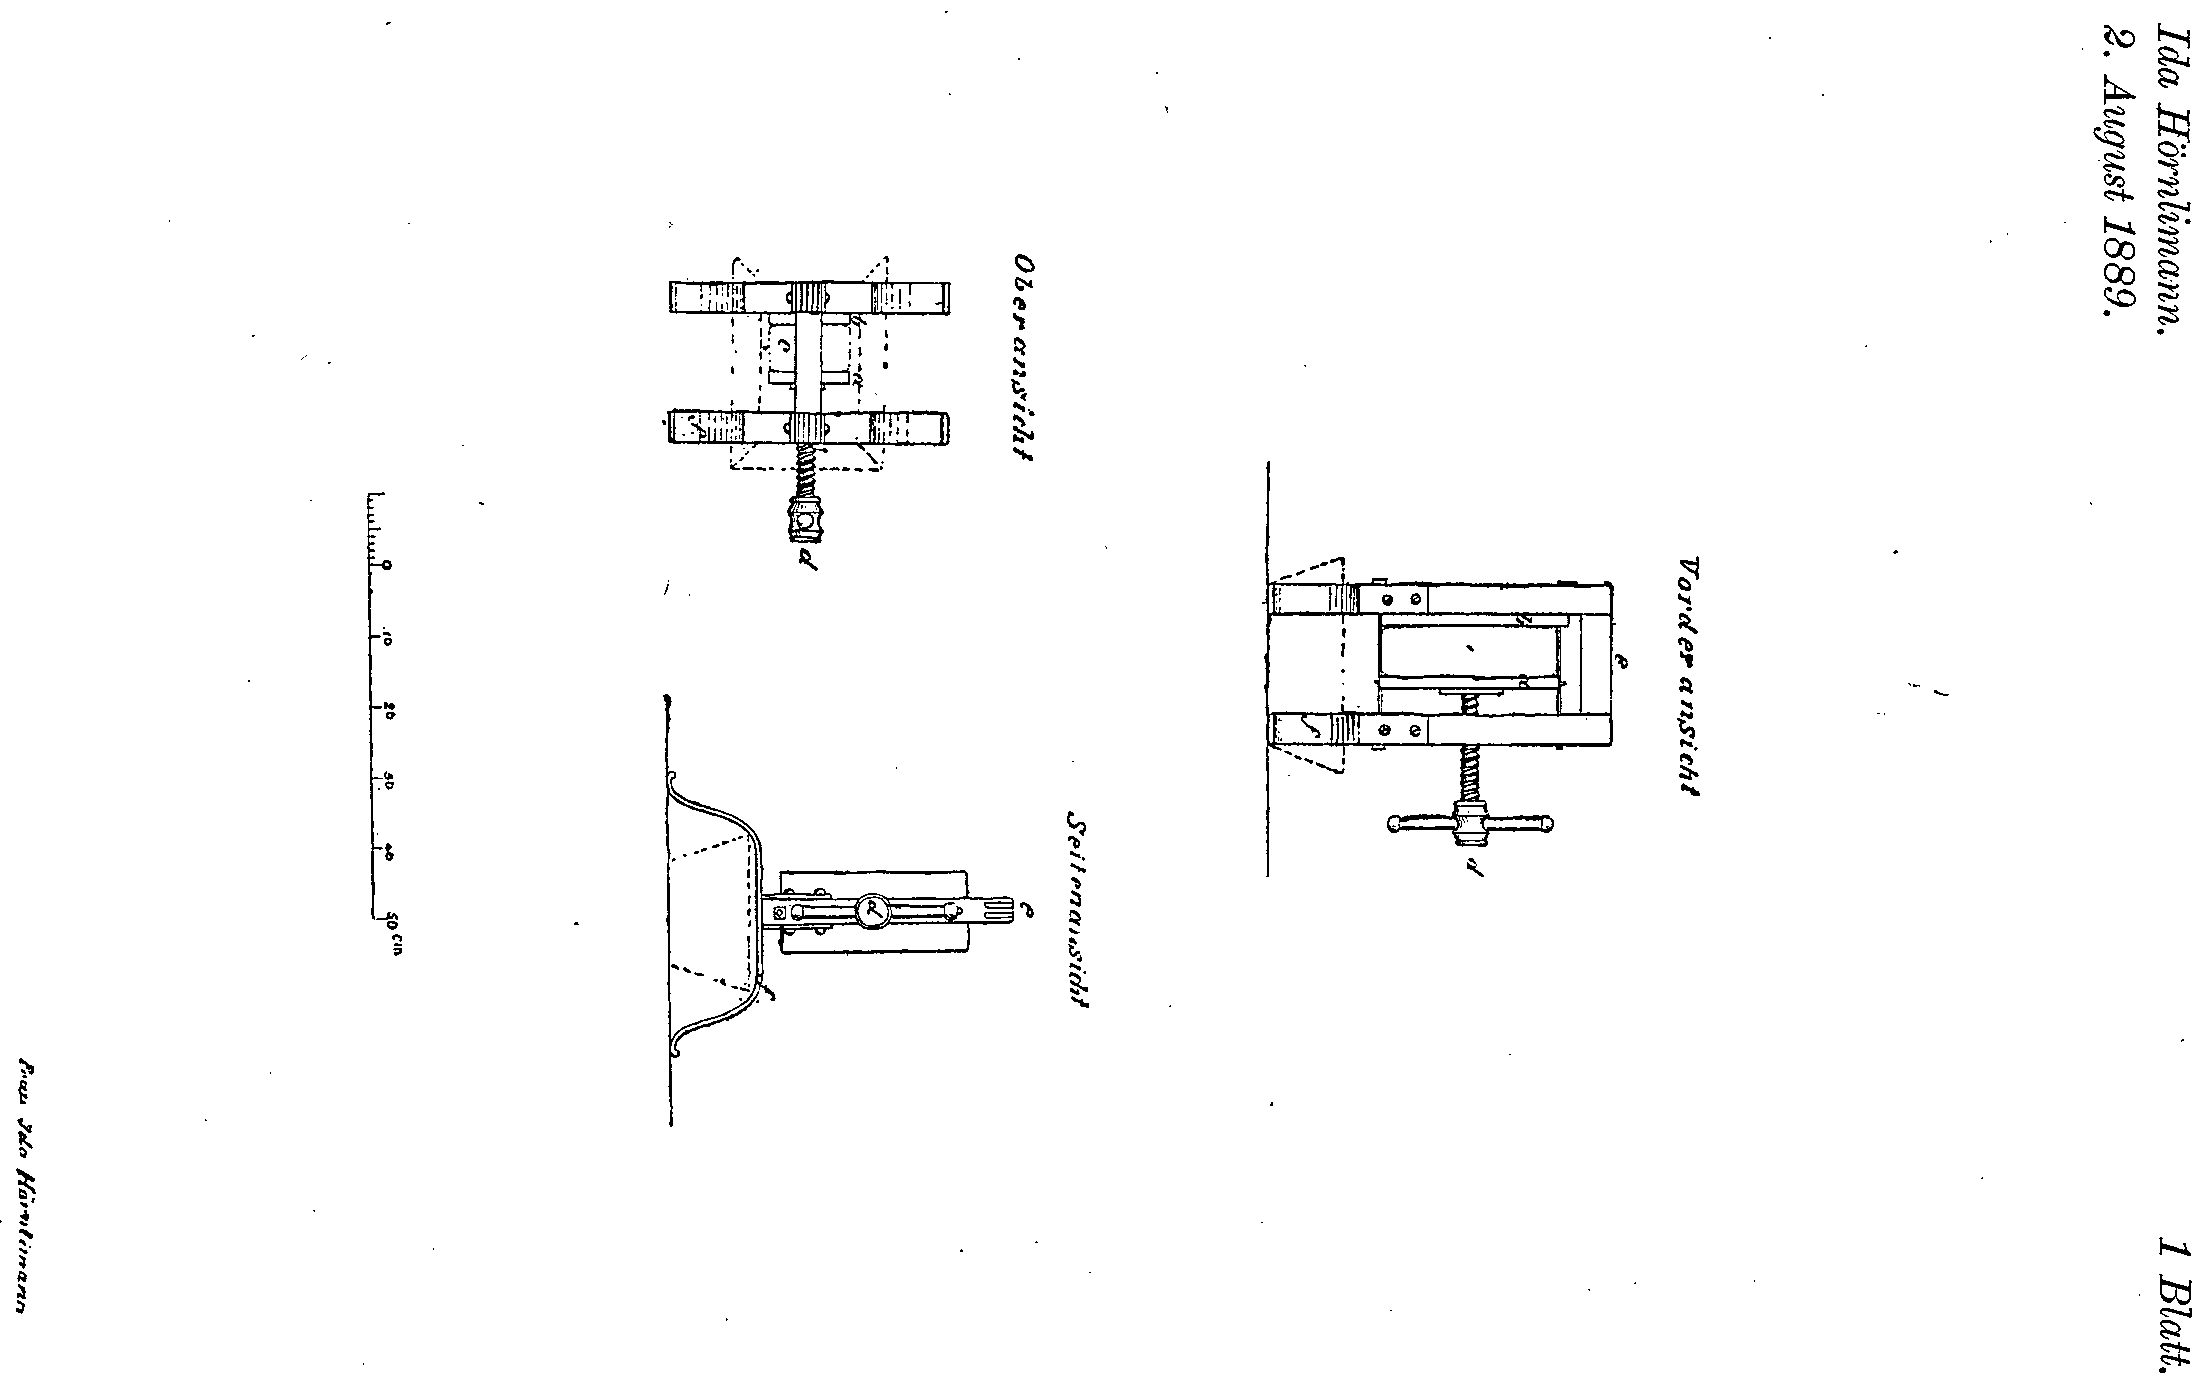
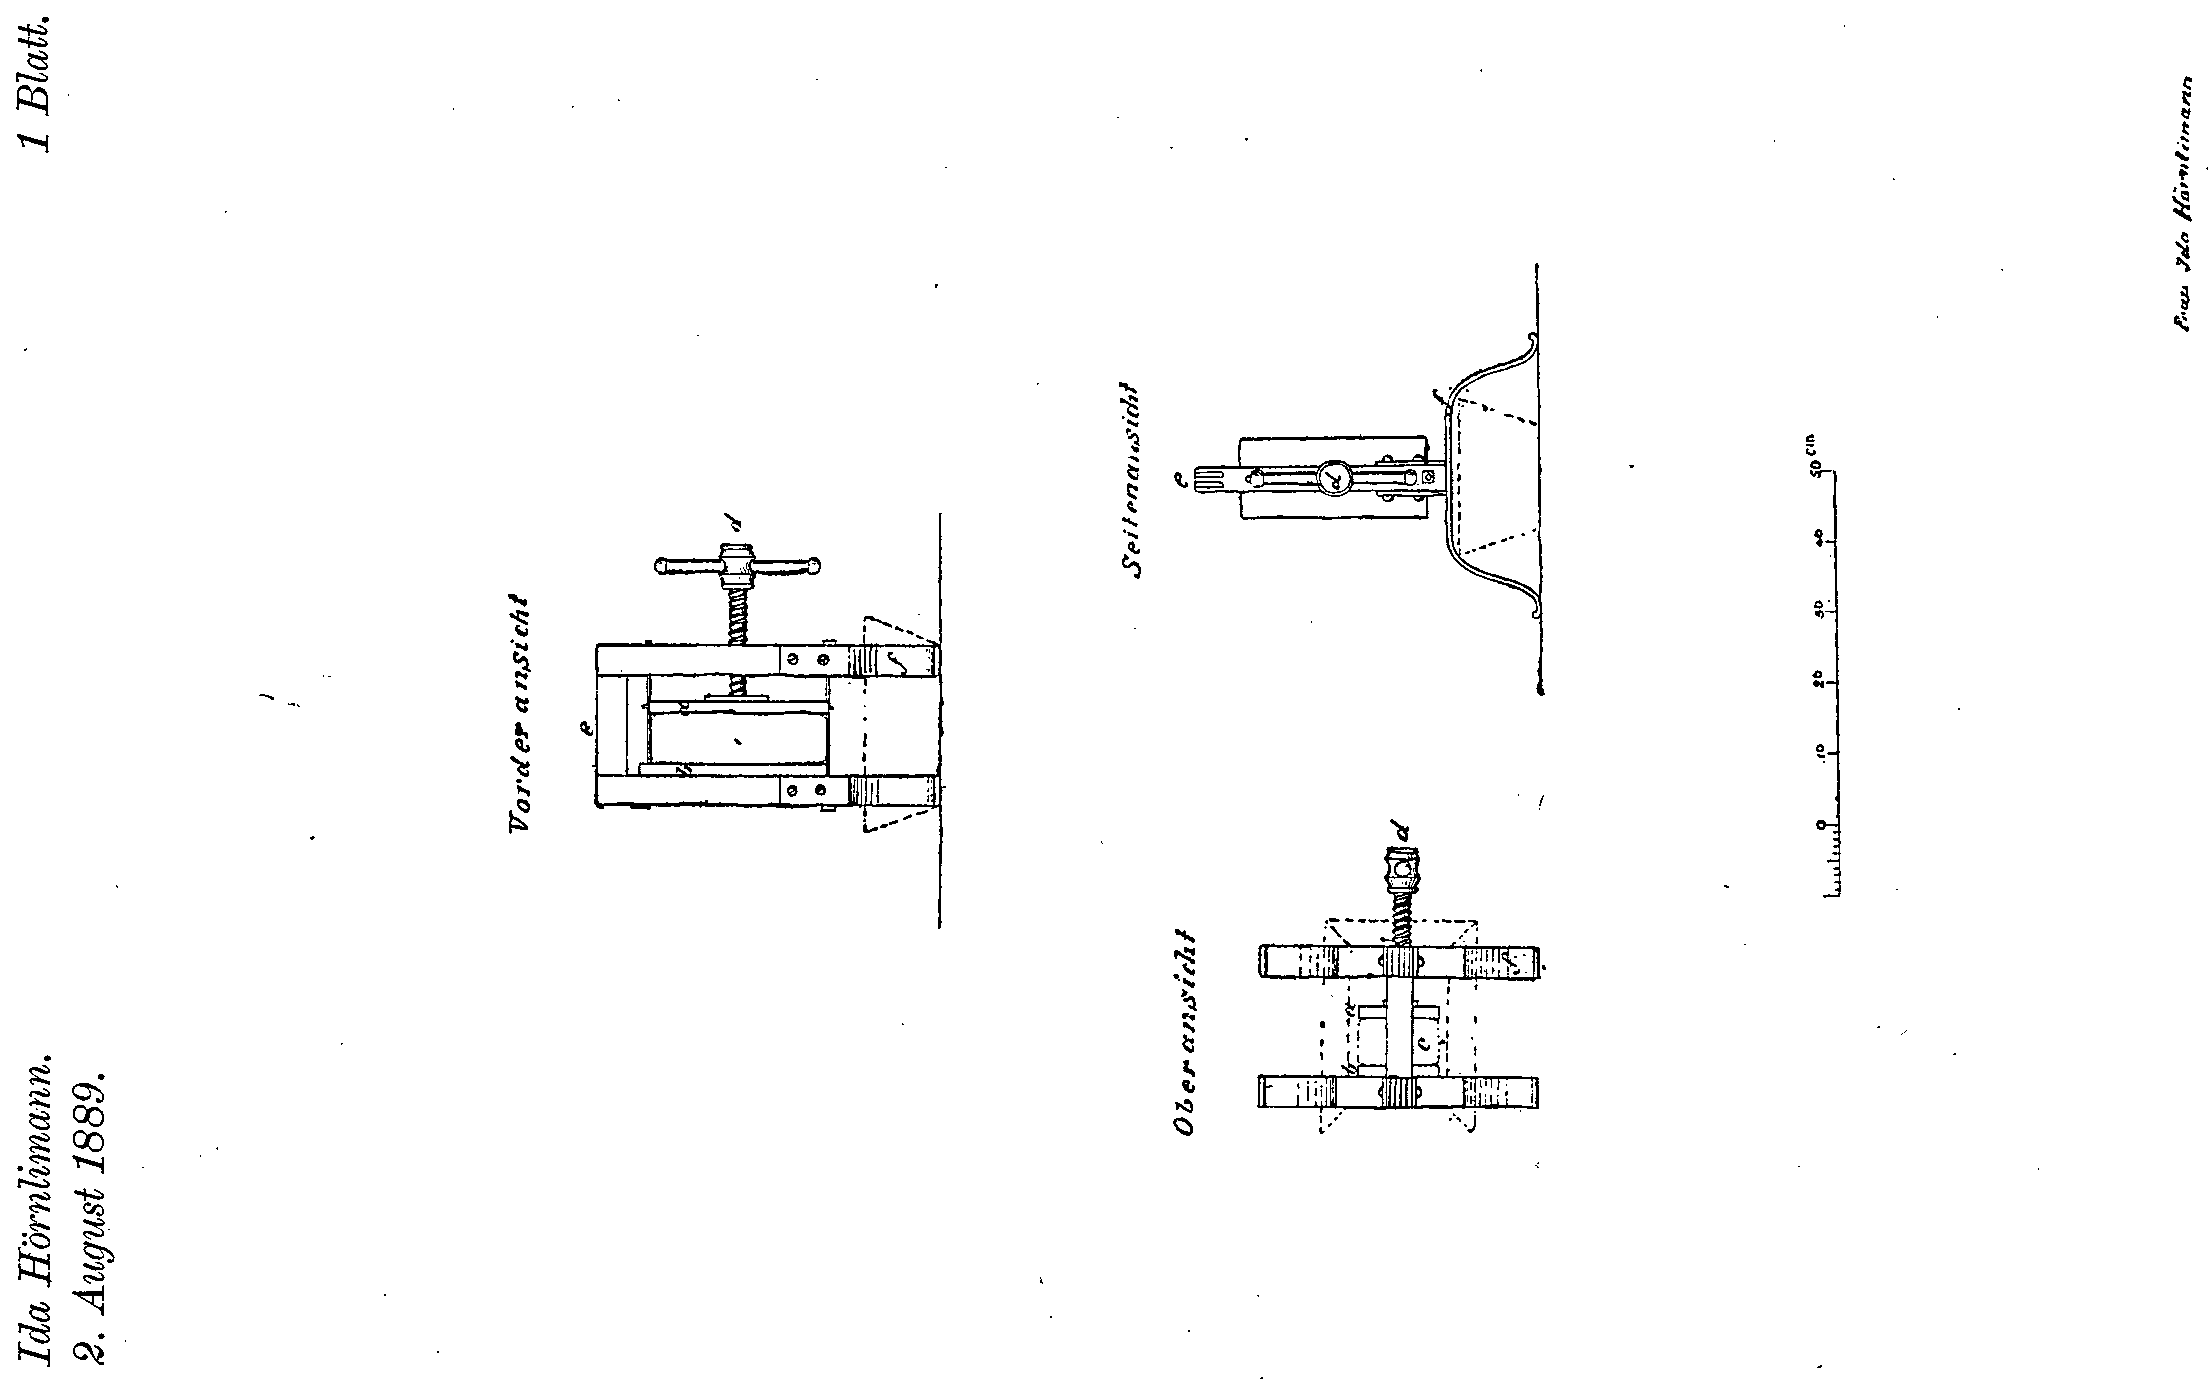
add ida becker

diff --git a/content/post/ida_becker/index.md b/content/post/ida_becker/index.md
@@ -1,0 +1,32 @@
+---
+authors:
+- admin
+categories:
+- GB
+date: "2024-06-20T00:00:00Z"
+featured: true
+image:
+  caption: 'Image credit: [**Becker, I.I. (1894)**](https://worldwide.espacenet.com/patent/search/family/032123775/publication/GB189408719A?q=pn%3DGB189408719A)'
+  focal_point: ""
+  placement: 2
+  preview_only: false
+lastmod: "2024-06-20T00:00:00Z"
+projects: []
+subtitle: "Improvements in Rails for Short Blinds and the like."
+summary: ""
+tags:
+- Other Fields
+- Great Britain 
+- GB
+title: "Ida Irene Becker, 
+GB189408719A"
+---
+On May 16, 1911, Alexandra Gräfin von Dyhrn of Muswell Hill, Middlesex, was awarded a patent for her development of a novel U-shaped rail designed to facilitate the hanging and detachment of curtains without prior setup.
+
+Date of Application: 2 May 1894
+
+Date of Issuance: 9 March 1895
+
+For more information, please refer to the following webpage: 
+
+- [Espacenet](https://worldwide.espacenet.com/patent/search/family/032123775/publication/GB189408719A?q=pn%3DGB189408719A)
